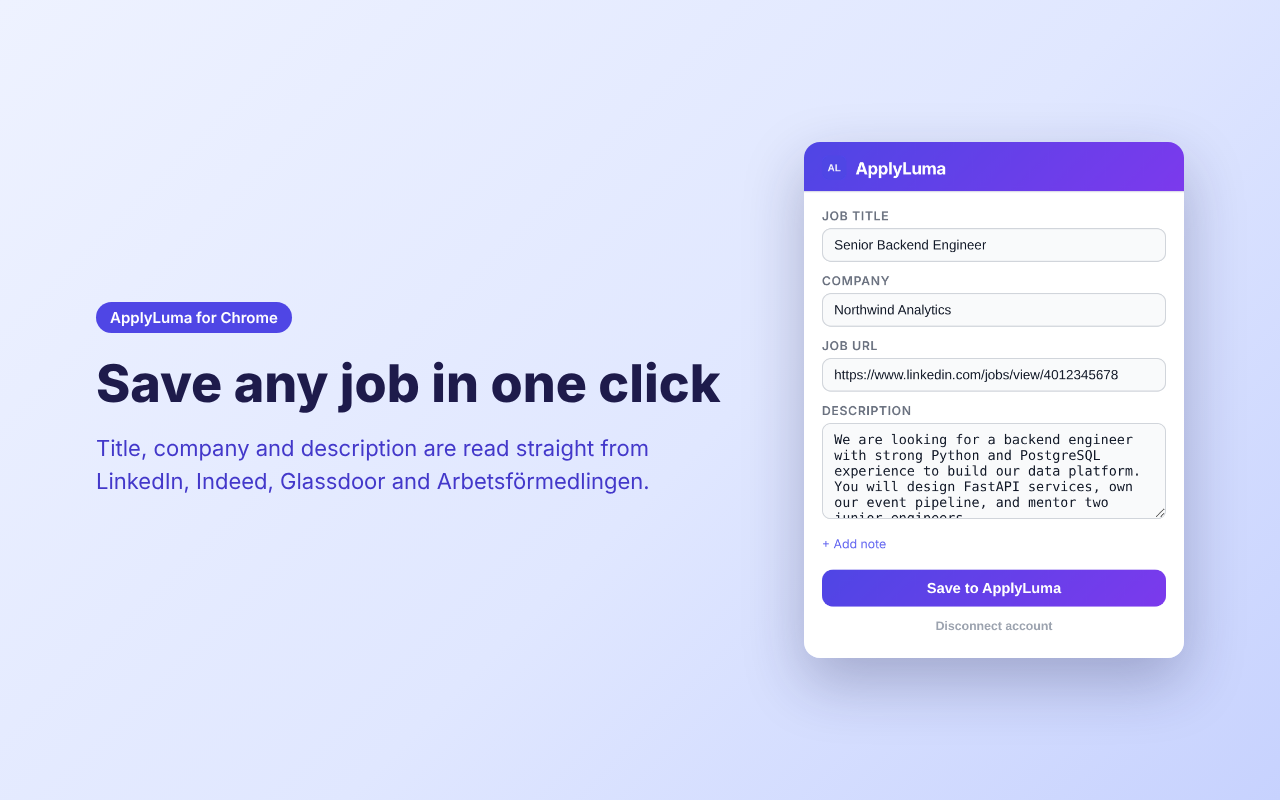
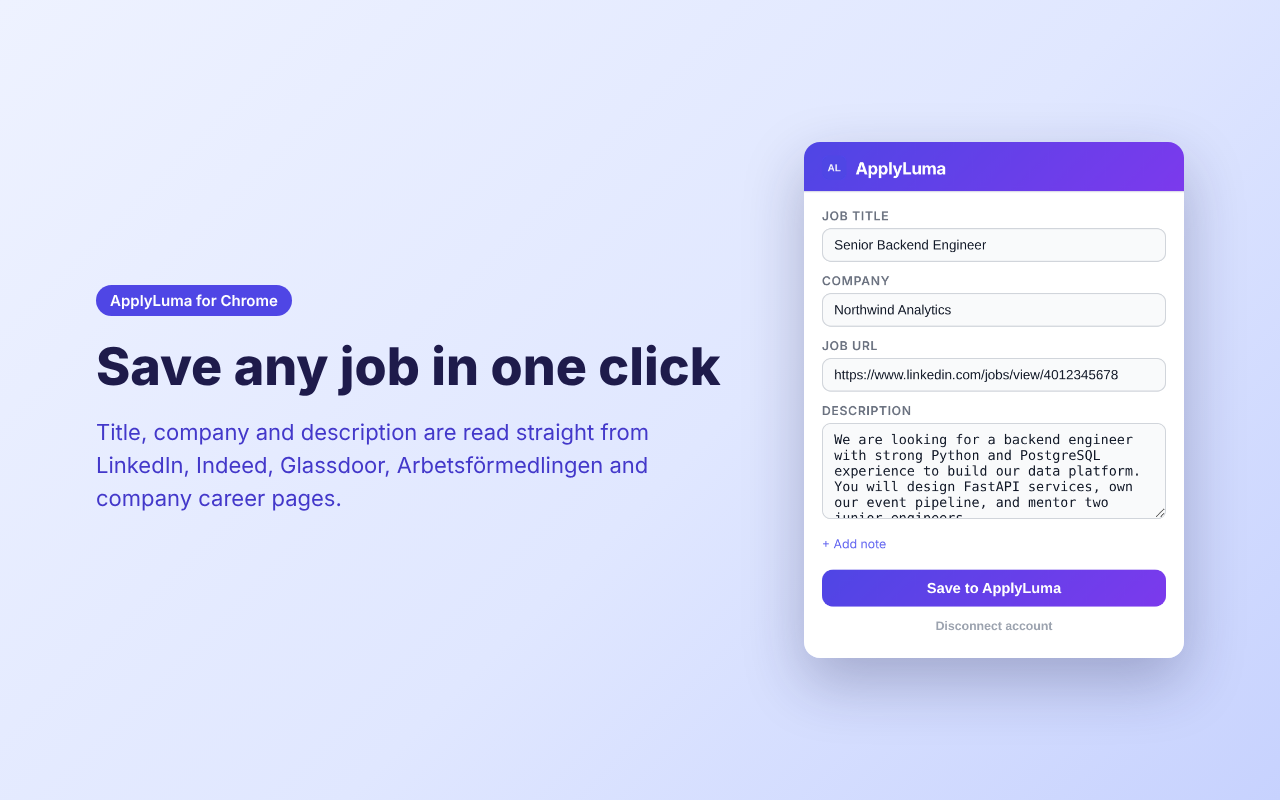
Extension store text: the match score is not AI; first screenshot mentions career pages
The store description and the second screenshot's caption said 'AI match
score'. The score uses fixed rules and makes no model call. The first
screenshot's caption now lists company career pages, as 1.1.0 supports them.

Changed region(s): [[0.0625, 0.3438, 0.5625, 0.6562]]

diff --git a/applyluma-extension/store/generate-assets.js b/applyluma-extension/store/generate-assets.js
@@ -89,8 +89,8 @@ async function compose(browser, popupPng, heading, sub, file) {
   await popupShot(browser, { savedUrls: [] }, null, `${tmp}/connect.png`);
   await popupShot(browser, { applyluma_token: 'x', savedUrls: new Array(24).fill('u') }, null, `${tmp}/connected.png`);
 
-  await compose(browser, `${tmp}/save.png`, 'Save any job in one click', 'Title, company and description are read straight from LinkedIn, Indeed, Glassdoor and Arbetsförmedlingen.', `${OUT}/screenshot-1-save.png`);
-  await compose(browser, `${tmp}/score.png`, 'See how well you match', 'Get an AI match score against your CV, track the application, and tailor your CV — without leaving the posting.', `${OUT}/screenshot-2-match.png`);
+  await compose(browser, `${tmp}/save.png`, 'Save any job in one click', 'Title, company and description are read straight from LinkedIn, Indeed, Glassdoor, Arbetsförmedlingen and company career pages.', `${OUT}/screenshot-1-save.png`);
+  await compose(browser, `${tmp}/score.png`, 'See how well you match', 'Get a match score against your CV, track the application, and tailor your CV — without leaving the posting.', `${OUT}/screenshot-2-match.png`);
   await compose(browser, `${tmp}/connected.png`, 'Everything lands in ApplyLuma', 'Saved jobs sync to your dashboard. Press Alt+Shift+S to save without opening the popup.', `${OUT}/screenshot-3-synced.png`);
 
   // Small promo tile 440x280

diff --git a/applyluma-extension/store/STORE_LISTING.md b/applyluma-extension/store/STORE_LISTING.md
@@ -26,7 +26,7 @@ SAVE JOBS FROM WHERE YOU FIND THEM
 Open a posting on LinkedIn, Indeed, Glassdoor, Arbetsförmedlingen (Platsbanken) or a company's own career page and click the ApplyLuma icon. The title, company, link and description are filled in for you. Add a note if you like, then save.
 
 SEE HOW WELL YOU MATCH
-Right after saving, the popup shows an AI match score comparing the job against your default CV in ApplyLuma.
+Right after saving, the popup shows a match score comparing the job against your default CV in ApplyLuma.
 
 TRACK AND TAILOR WITHOUT SWITCHING TABS
 Add the job to your application tracker, or start an AI-tailored version of your CV for that specific role, directly from the popup.
